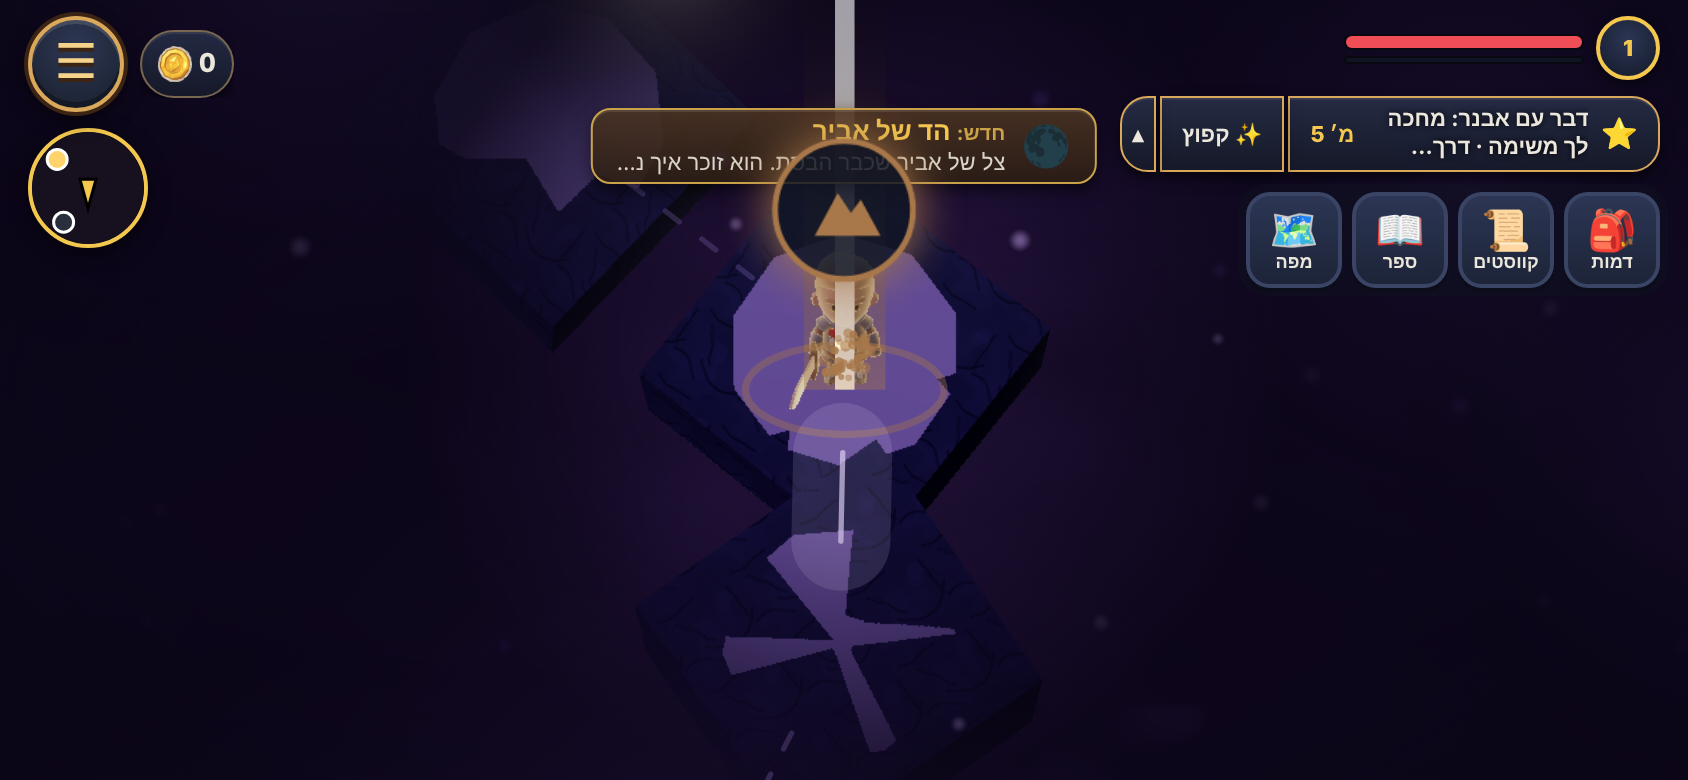
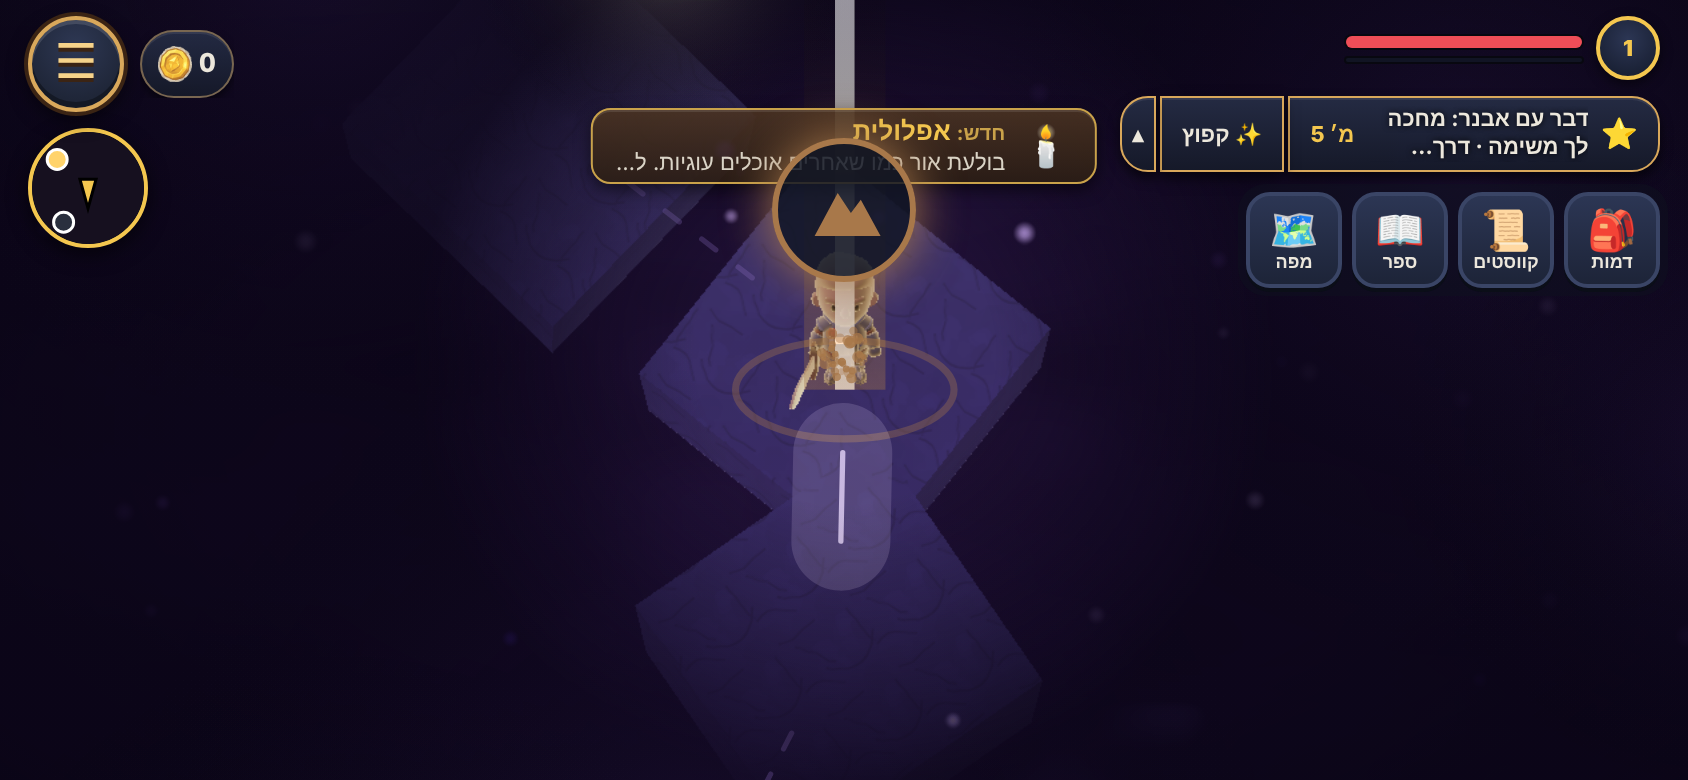
הסלעים המרחפים: בלי כתמים על הגגות, זוהר עדין בסלע עצמו
Claude-Session: https://claude.ai/code/session_01ABMDoLjVmuXH7KPU2yhwgC

Changed region(s): [[0.3697, 0.2769, 0.6469, 0.8615], [0.3081, 0.1538, 0.6469, 0.4615]]

diff --git a/js/shadowrocks.js b/js/shadowrocks.js
@@ -116,12 +116,12 @@ function sr3d(G,reg){
     for(const n of SR.nodes){if(n.fixed)continue;const g=new THREE.Group(),r=n.r,v=hash(n.k,7);
       if(R3D.props[M.name]){const m=wPut({model:M.name,w:r*M.w,tint:M.tint},0,0,v,1,g);m.rotation.x=Math.PI;const bb=new THREE.Box3().setFromObject(m);m.position.y-=bb.max.y}
       else{const b=new THREE.Mesh(new THREE.ConeGeometry(r,90,7),cap);b.rotation.x=Math.PI;b.position.y=-45;g.add(b)}
-      const cm=cap.clone();cm.emissive=new THREE.Color('rgb('+K.col.rim+')');const c=new THREE.Mesh(new THREE.CylinderGeometry(r*0.92,r*0.98,6,10),cm);c.position.y=-3;c.rotation.y=v*6;g.add(c);   // הגג: משטח שעומדים עליו
+      const cm=[],rim=new THREE.Color('rgb('+K.col.rim+')');g.traverse(o=>{if(o.isMesh&&o.material&&o.material.emissive){o.material=o.material.clone();o.material.emissive.copy(rim);o.material.emissiveIntensity=0;cm.push(o.material)}});   // מחובר: הסלע זוהר מבפנים
       const q=new THREE.Mesh(new THREE.OctahedronGeometry(12),glow);q.position.y=-r*1.1;g.add(q);   // גביש זוהר מתחת
       if(typeof p3Halo==='function'){const h=p3Halo('#9c6bff',r*2.4,-r*1.5,g);h.material.opacity=0.45}   // ההילה: הסלע מרחף מעל האור (props3d.js)
       g.scale.set(1,1,1/S_);G.g.add(g);G.sr.push([g,n,q,cm])}}
   const t=fxNow();
   for(const [g,n,q,cm] of G.sr){g.position.set(n.x,(K.lift+n.h)/COS(),n.y/S_);q.rotation.y=t*0.8+n.k;
-    const i=SR.nodes.indexOf(n),on=SR.links[i-1].on||SR.links[i].on;cm.emissiveIntensity=on?0.14+0.06*Math.sin(t*4):0;   // מחובר: הגג זוהר בעדינות
+    const i=SR.nodes.indexOf(n),on=SR.links[i-1].on||SR.links[i].on;for(const m of cm)m.emissiveIntensity=on?0.05+0.03*Math.sin(t*4):0;   // מחובר: הגג זוהר בעדינות
     g.visible=Math.abs(n.x-S.cam.x)+Math.abs(n.y-S.cam.y)<TERRAIN.cull*1.4}
 }
